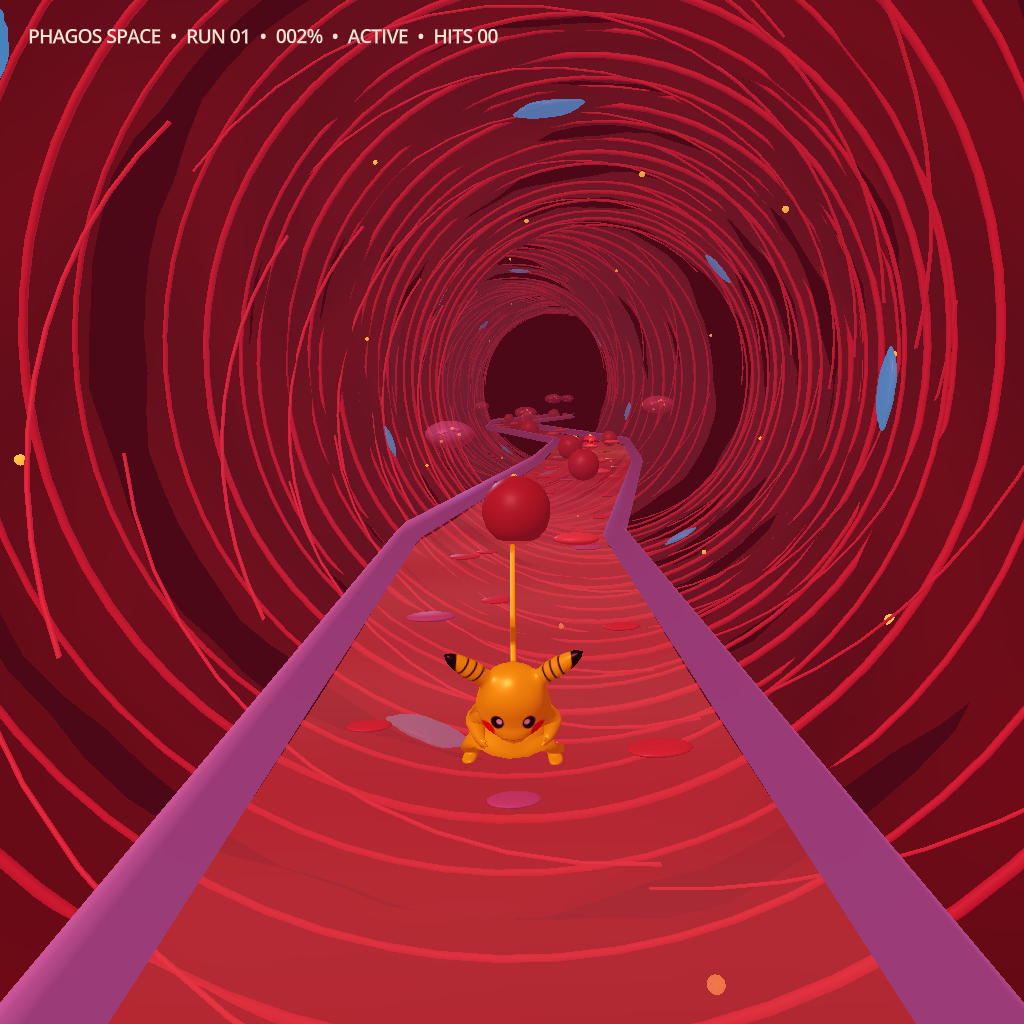
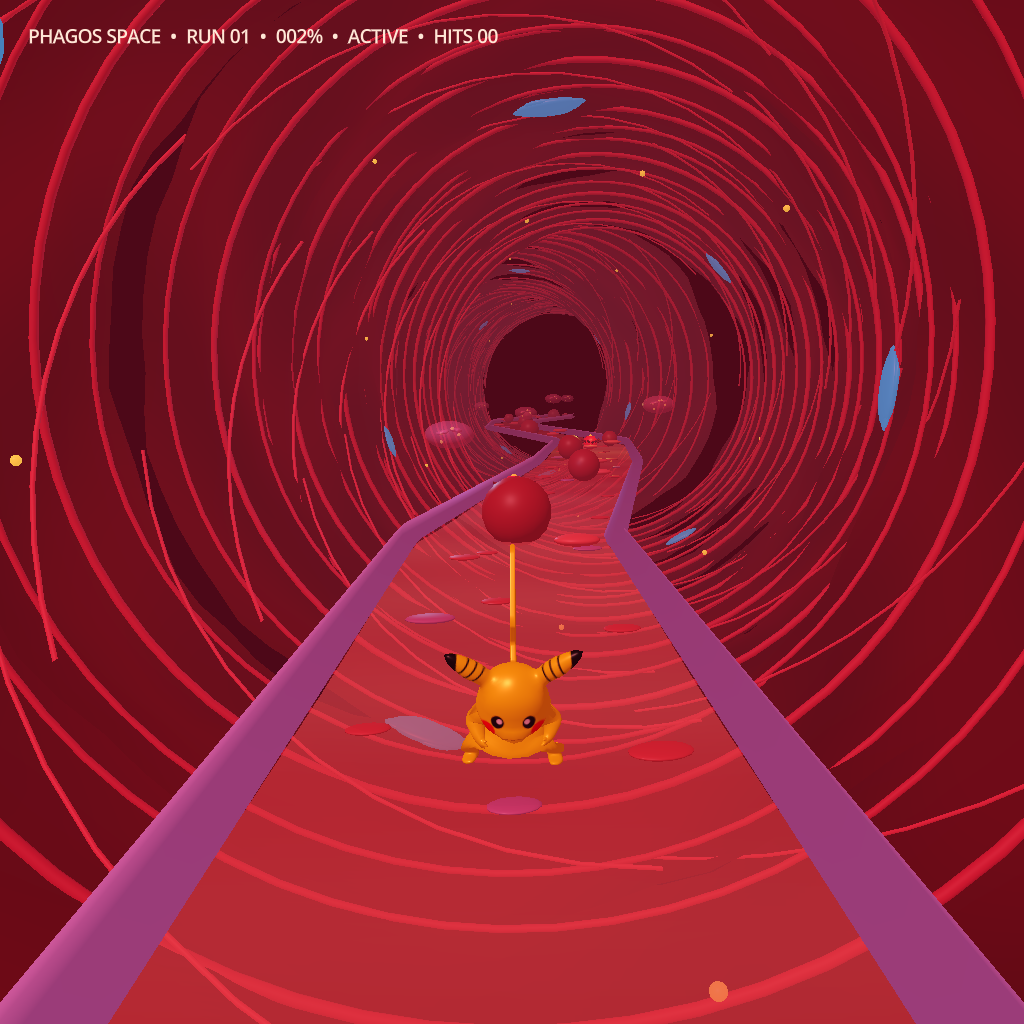
fix: close vessel tile seams and wall spawn sides

diff --git a/index.html b/index.html
@@ -109,7 +109,7 @@ body {
 
 		<script src="index.js"></script>
 		<script>
-const GODOT_CONFIG = {"args":[],"canvasResizePolicy":2,"emscriptenPoolSize":8,"ensureCrossOriginIsolationHeaders":true,"executable":"index","experimentalVK":false,"fileSizes":{"index.pck":7497072,"index.wasm":35749181},"focusCanvas":true,"gdextensionLibs":[],"godotPoolSize":4};
+const GODOT_CONFIG = {"args":[],"canvasResizePolicy":2,"emscriptenPoolSize":8,"ensureCrossOriginIsolationHeaders":true,"executable":"index","experimentalVK":false,"fileSizes":{"index.pck":7497200,"index.wasm":35749181},"focusCanvas":true,"gdextensionLibs":[],"godotPoolSize":4};
 const GODOT_THREADS_ENABLED = false;
 const engine = new Engine(GODOT_CONFIG);
 

diff --git a/docs/M1_EVIDENCE.md b/docs/M1_EVIDENCE.md
@@ -53,7 +53,7 @@ Canonical root files produced:
 | `index.html` | 5,298 bytes |
 | `index.js` | 279,925 bytes |
 | `index.wasm` | 35,749,181 bytes |
-| `index.pck` | 7,497,072 bytes |
+| `index.pck` | 7,497,200 bytes |
 
 Additional Web runtime files (`index.png`, audio worklets) are kept because the generated HTML references them.
 
@@ -133,7 +133,7 @@ assets/pathogen_emergence.glb
   AnimationPlayer: Pathogen_EmergeFromWall
 ```
 
-The wall animation is a keyed membrane shape deformation loop; its material has no journey/UV scrolling. The six hazards now use authored pathogen geometry. Their spawn modes are:
+The wall animation is a keyed membrane shape deformation loop; its material has no journey/UV scrolling. Wall modules are placed at 10m intervals with a 2m overlap and deterministic radial/twist variation to hide seams through turns. The six hazards now use authored pathogen geometry. Their spawn modes are:
 
 ```text
 road, wall_left, road, wall_right, wall_left, road
